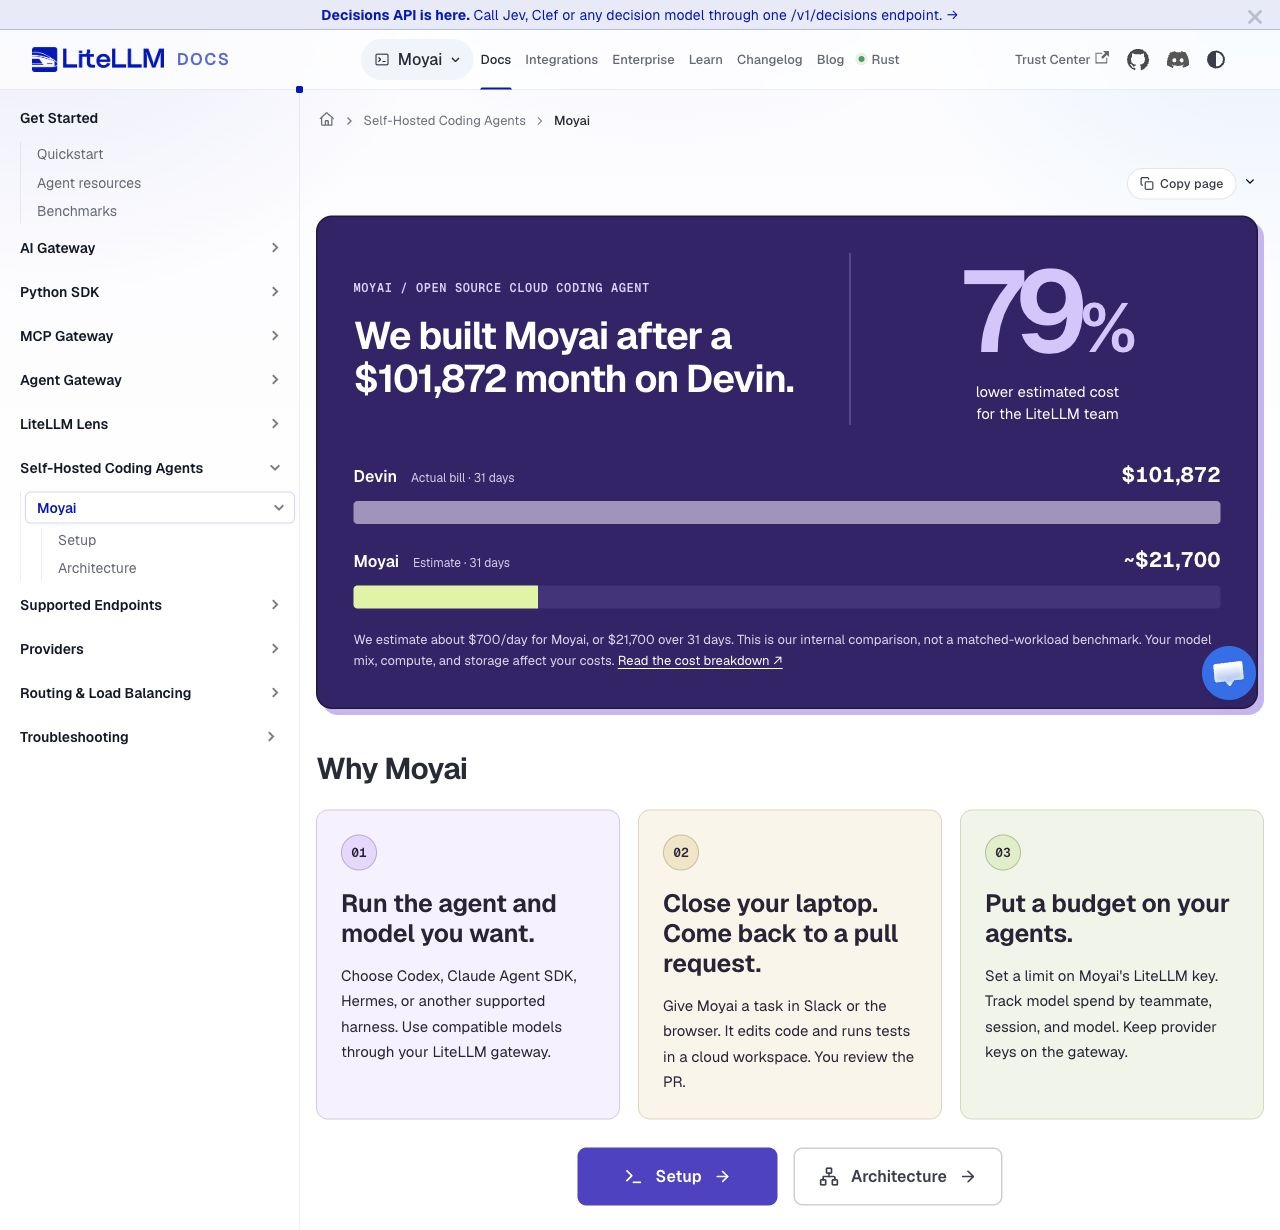
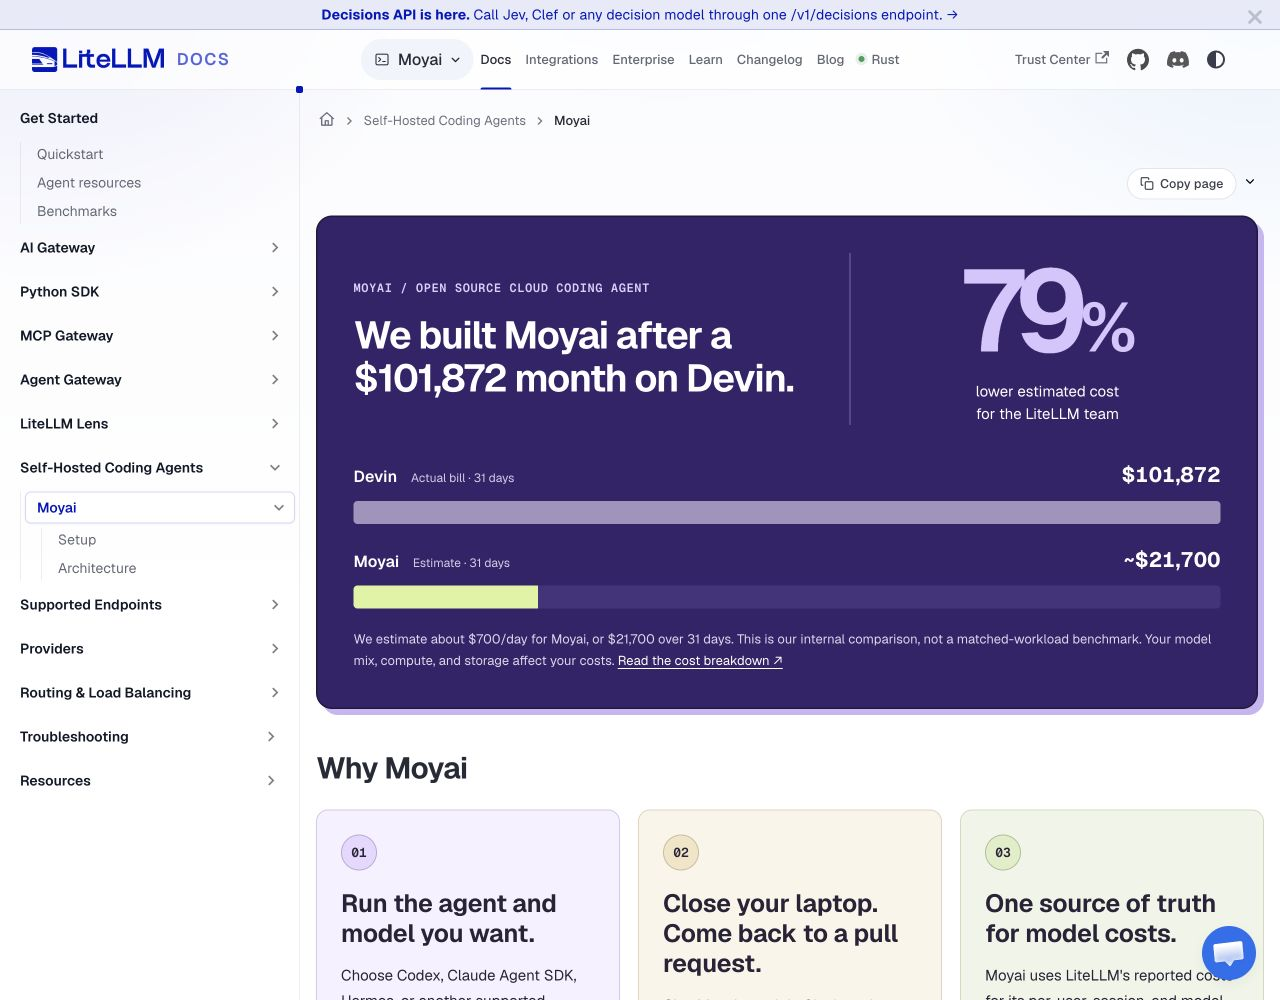
docs: restore Moyai guide cards and clarify cost accounting

diff --git a/src/components/Moyai/styles.module.css b/src/components/Moyai/styles.module.css
@@ -40,12 +40,25 @@
 .benefits h3 { color: inherit; font-size: clamp(21px, 2vw, 25px) !important; font-weight: 650 !important; line-height: 1.2 !important; letter-spacing: -0.025em; margin: 18px 0 14px; }
 .benefits p { font-size: 15px !important; line-height: 1.7; margin: 0; }
 .benefits :global(.hash-link) { display: none; }
-.guides { display: flex; justify-content: center; flex-wrap: wrap; gap: 16px; margin: 28px 0 0; }
-.primary, .secondary { display: inline-flex; align-items: center; justify-content: center; gap: 12px; padding: 14px 24px; border: 1.5px solid; border-radius: 9px; font-size: 16px; font-weight: 600; min-width: 200px; transition: background 150ms ease; }
-.primary { color: #fff; background: #5141c8; border-color: #5141c8; }
-.primary:hover { color: #fff; background: #4031aa; text-decoration: none; }
-.secondary { color: var(--ifm-font-color-base); background: var(--ifm-background-color); border-color: var(--ifm-color-emphasis-400); }
-.secondary:hover { color: var(--ifm-font-color-base); background: var(--ifm-color-emphasis-100); text-decoration: none; }
+.guides { display: grid; grid-template-columns: repeat(2, minmax(0, 1fr)); gap: 20px; margin: 28px 5px 0 0; }
+.guideCard {
+  display: flex;
+  align-items: center;
+  gap: 16px;
+  padding: 24px;
+  color: #292337;
+  background: #eee7ff;
+  border: 1.5px solid #292337;
+  border-radius: 12px;
+  box-shadow: 4px 4px 0 #292337;
+  transition: transform 150ms ease, box-shadow 150ms ease;
+}
+.guideCard:nth-child(2) { background: #faf5e9; }
+.guideCard:hover { color: #292337; text-decoration: none; transform: translate(-2px, -2px); box-shadow: 6px 6px 0 #292337; }
+.guideCard > svg { flex-shrink: 0; }
+.guideCard .guideArrow { margin-left: auto; }
+.guides .guideCard h3 { color: inherit; font-size: 23px !important; font-weight: 650 !important; line-height: 1.2 !important; letter-spacing: -0.025em; margin: 0 0 7px; }
+.guides .guideCard p { color: inherit; font-size: 14px; line-height: 1.5; margin: 0; }
 .nav a:focus-visible, .guides a:focus-visible, .cost a:focus-visible { outline: 3px solid #9870ff; outline-offset: 5px; }
 .cost a:focus-visible { outline-color: #dcf49d; }
 
@@ -54,6 +67,8 @@
 [data-theme='dark'] .benefits section:nth-child(2) { background: #332f28; border-color: #786a50; }
 [data-theme='dark'] .benefits section:nth-child(3) { background: #283325; border-color: #617650; }
 [data-theme='dark'] .number { color: #292337; }
+[data-theme='dark'] .guideCard { color: #f4edff; background: #302643; border-color: #a38aba; box-shadow: 4px 4px 0 #796093; }
+[data-theme='dark'] .guideCard:nth-child(2) { background: #332f28; }
 
 @media (max-width: 1100px) {
   .benefits { gap: 12px; }
@@ -74,9 +89,9 @@
   .barLabel small { display: block; margin: 3px 0 0; }
   .barLabel strong { font-size: 19px; }
   .barTrack { height: 18px; }
-  .guides { gap: 12px; }
-  .guides a { flex: 1; min-width: 0; padding: 14px 16px; }
-  .guides a > svg:last-child { display: none; }
+  .guides { grid-template-columns: 1fr; gap: 16px; }
+  .guideCard { padding: 20px 16px; gap: 12px; }
+  .guides .guideCard h3 { font-size: 22px !important; }
 }
 @media (prefers-reduced-motion: reduce) {
   .guides a { transition: none; }

diff --git a/src/components/Moyai/index.js b/src/components/Moyai/index.js
@@ -65,21 +65,25 @@ export function BenefitGrid() {
       </section>
       <section aria-labelledby="budget-your-agents">
         <span className={styles.number}>03</span>
-        <Heading as="h3" id="budget-your-agents">Put a budget on your agents.</Heading>
-        <p>Set a limit on Moyai's LiteLLM key. Track model spend by teammate, session, and model. Keep provider keys on the gateway.</p>
+        <Heading as="h3" id="budget-your-agents">One source of truth for model costs.</Heading>
+        <p>Moyai uses LiteLLM's reported costs for its per-user, session, and model breakdowns. The totals add up to those same recorded charges.</p>
       </section>
     </div>
   );
 }
 
-export function GuideButtons() {
+export function GuideCards() {
   return (
     <nav className={styles.guides} aria-label="Moyai guides">
-      <Link to={`${root}/setup`} className={styles.primary}>
-        <Terminal size={20} aria-hidden="true" />Setup<ArrowRight size={18} aria-hidden="true" />
+      <Link to={`${root}/setup`} className={styles.guideCard}>
+        <Terminal size={26} aria-hidden="true" />
+        <div><h3>Setup</h3><p>Deploy Moyai. Run your first cloud task.</p></div>
+        <ArrowRight className={styles.guideArrow} size={22} aria-hidden="true" />
       </Link>
-      <Link to={`${root}/architecture`} className={styles.secondary}>
-        <Network size={20} aria-hidden="true" />Architecture<ArrowRight size={18} aria-hidden="true" />
+      <Link to={`${root}/architecture`} className={styles.guideCard}>
+        <Network size={26} aria-hidden="true" />
+        <div><h3>Architecture</h3><p>Explore sandboxes, checkpoints, and recovery.</p></div>
+        <ArrowRight className={styles.guideArrow} size={22} aria-hidden="true" />
       </Link>
     </nav>
   );

diff --git a/docs/self_hosted_coding_agents/moyai/architecture.md b/docs/self_hosted_coding_agents/moyai/architecture.md
@@ -142,8 +142,12 @@ The default Modal sandbox uses container isolation; optional VM execution is a s
 
 ## Cost accounting {#cost-accounting}
 
+Moyai uses LiteLLM as the source of truth for model costs. It stores the gateway's final charge for each tracked request and sums those same charges by user, session, and model. It preserves decimal precision instead of estimating prices from token counts.
+
 Moyai reserves a request identity before inference and attributes usage to the original user, message, session, and model. It captures final response costs for non-streaming requests and final usage costs for streams; an initial stream header is not a final bill.
 
 If a receipt is missing, background recovery can query LiteLLM's `/spend/logs/v2` using the same gateway key with the added permission. This recovers accounting without rerunning inference or changing an interrupted task's execution status. Unknown costs remain visible. Keep provider inference and hosting/storage charges distinct when evaluating the installation.
+
+The totals cover tracked Moyai requests with recorded costs. Calls outside Moyai, gateway-internal billed attempts absent from returned costs, and unresolved receipts can leave a difference from the gateway key's total. Use the dashboard's coverage and per-request amounts when reconciling spend.
 
 See [costs and receipt recovery](https://github.com/BerriAI/moyai/blob/main/docs/costs.md) and [the setup spend check](./setup.md#track-spend).

diff --git a/docs/self_hosted_coding_agents/moyai.md b/docs/self_hosted_coding_agents/moyai.md
@@ -6,7 +6,7 @@ hide_title: true
 hide_table_of_contents: true
 ---
 
-import {CostHero, BenefitGrid, GuideButtons} from '@site/src/components/Moyai';
+import {CostHero, BenefitGrid, GuideCards} from '@site/src/components/Moyai';
 import BugWorkflowDemo from '@site/blog/internal-devin-two-days/BugWorkflowDemo';
 import styles from '@site/src/components/Moyai/styles.module.css';
 import Heading from '@theme/Heading';
@@ -16,7 +16,7 @@ import Heading from '@theme/Heading';
 <section className={styles.why} aria-labelledby="why-moyai">
   <Heading as="h2" id="why-moyai">Why Moyai</Heading>
   <BenefitGrid />
-  <GuideButtons />
+  <GuideCards />
 </section>
 
 ## Watch a task go from request to PR {#watch-a-task}
